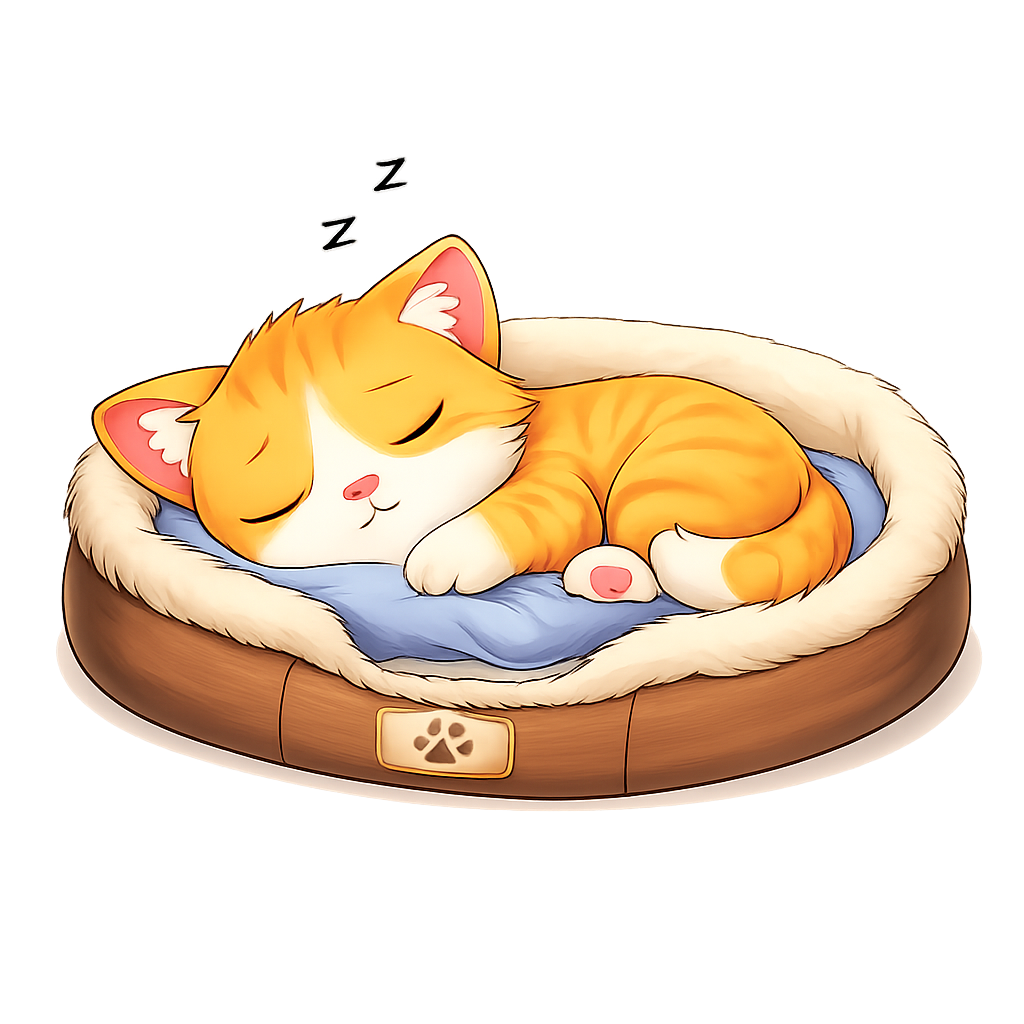
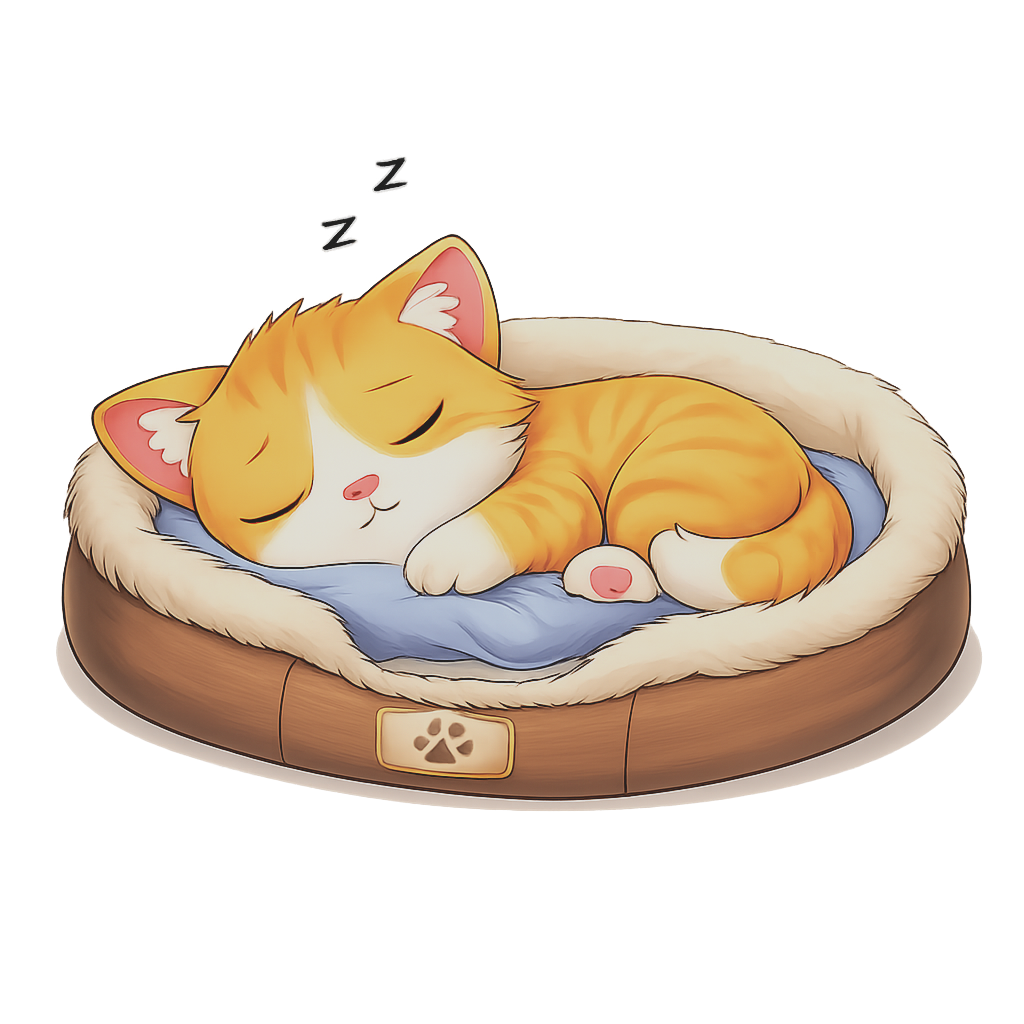
Fixed sleeping cat image

Changed region(s): [[0.0312, 0.2188, 0.9688, 0.8125], [0.375, 0.1562, 0.4062, 0.1875], [0.3125, 0.2188, 0.3438, 0.25]]

diff --git a/lib/ui/components/bedroom_game.dart b/lib/ui/components/bedroom_game.dart
@@ -14,29 +14,51 @@ class BedroomGame extends FlameGame {
 
   @override
   Future<void> onLoad() async {
+    final bg = await loadSprite('bedroom_unity.png');
+    final diary = await loadSprite('diary.png');
+    final cat = await loadSprite('sleeping_cat.png');
+
+    // Background
     add(
       SpriteComponent(
-        sprite: await loadSprite('bedroom_unity.png'),
+        sprite: bg,
         size: size,
       ),
     );
 
+    // Diario
     add(
       ClickableObject(
-          sprite: await loadSprite('diary.png'),
+          sprite: diary,
           onTap: onDiaryTap,
         )
         ..size = Vector2(size.x * 0.12, size.x * 0.12)
-        ..position = Vector2(size.x * 0.10, size.y * 0.503),
+        ..position = Vector2(size.x * 0.10, size.y * 0.50),
     );
 
+    // OMBRA (finta ma giusta)
+    add(
+      RectangleComponent(
+        size: Vector2(size.x * 0.22, size.x * 0.04),
+        position: Vector2(
+          size.x * 0.20,
+          size.y * 0.78,
+        ),
+        paint:
+            Paint()
+              ..color = Colors.black.withValues(alpha: 0.18)
+              ..maskFilter = const MaskFilter.blur(BlurStyle.normal, 18),
+      ),
+    );
+
+    // Gatto
     add(
       ClickableObject(
-          sprite: await loadSprite('sleeping_cat.png'),
+          sprite: cat,
           onTap: onPetTap,
         )
-        ..size = Vector2(size.x * 0.30, size.x * 0.30)
-        ..position = Vector2(size.x * 0.16, size.y * 0.70),
+        ..size = Vector2(size.x * 0.28, size.x * 0.28)
+        ..position = Vector2(size.x * 0.16, size.y * 0.68),
     );
   }
 }
